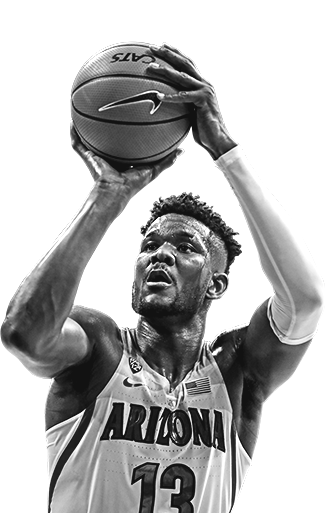
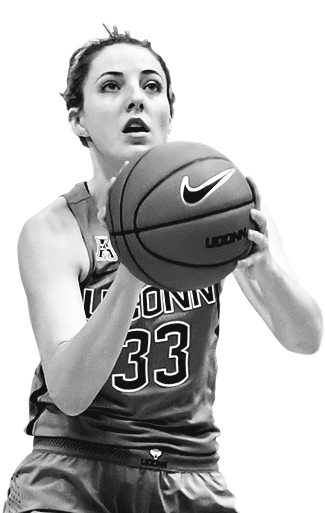
add womens cutouts

diff --git a/src/sass/partials/_header.scss b/src/sass/partials/_header.scss
@@ -221,12 +221,6 @@
         right: -400px;
     }
 
-    &--1 {
-        @include mq(tablet) {
-            bottom: -40px;
-        }
-    }
-
     &--2 {
         animation-delay: 6s;
     }
